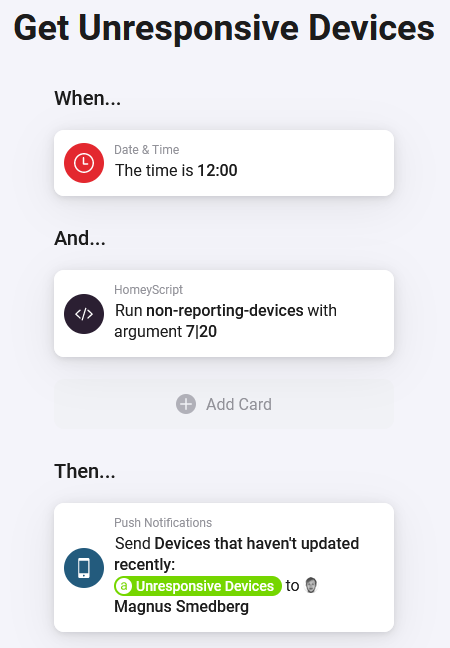
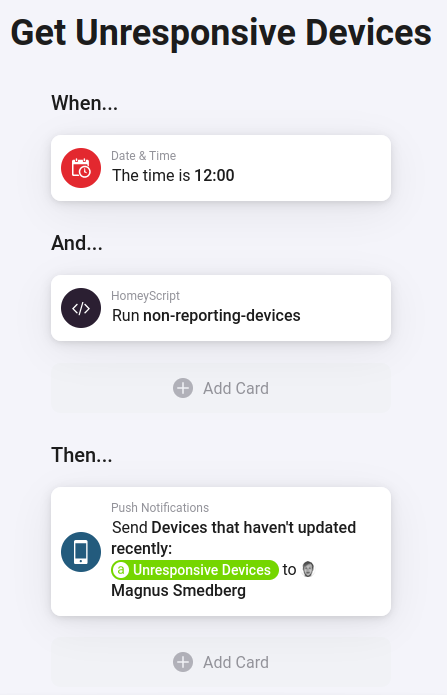
Script rewrite
You can now configure the threshold for individual capabilities

diff --git a/get-non-reporting-devices.js b/get-non-reporting-devices.js
@@ -1,100 +1,100 @@
 /*
-  Gets a list of devices that haven't reported for a set number of days.
-  Updated: 2023-01-30
+  Updated: 2025-01-02
+
+  This script identifies unresponsive devices in Homey by checking if the last update time of their capabilities exceeds configured thresholds.
+  A device is considered unresponsive only if all of its capabilities exceed the threshold.
+  The script returns true if any device is unresponsive and add the affected devices, and which zone it is in, to the 'Unresponsive Devices' tag.
 
   Example flow: https://github.com/AltonV/HomeyScripts/blob/main/pictures/get-non-reporting-devices-example-flow.png
 
-  Returns true if any devices haven't reported in the specified time
-  and outputs a list of devices to a tag that can be used in flows
-
-  Argument:
-    The script can take two numbers separated by | as an argument.
-    First number changes value of 'notReportedForDays' and the second changes 'notReportedForDaysBattery'.
-
   Variables:
-    ignoredNames: list of ignored names separated by |.
-    Uses partial matching. Case sensitive.
+    defaultThreshold:
+      The default threshold in hours.
 
-    notReportedForDays: How long ago in days where the device should count as offline
-    Overridden if the script is run with an argument.
+    capabilityThresholds:
+      Custom thresholds, in hours, for specific capabilities.
+      The list of capabilities can be found here. Use the ID.
+      https://apps-sdk-v3.developer.homey.app/tutorial-device-capabilities.html
 
-    notReportedForDaysBattery: Same as 'notReportedForDays'
-    but for devices that only reports battery status
+    ignoredNames:
+      List of names that will be ignored.
+      Uses case-sensitive partial matching.
 
-    ignoredApps: ignored appids separated by |.
-    By default homeys built-in virtual devices and the app Virtual Devices is ignored
-    You can get the appid from the app store URL.
+    ignoredApps:
+      List of apps to ignore.
+      I would recommend using the app ID, which you can get from the app store URL.
 
-    ignoredClasses: ignored classids separated by |.
-    https://apps-sdk-v3.developer.homey.app/tutorial-device-classes.html
+    ignoredClasses: list of device classes to ignore.
+      Use the class IDs from this list
+      https://apps-sdk-v3.developer.homey.app/tutorial-device-classes.html
 
-    tagName: the name of the tag where the output is written to.
+    tagName:
+      The name of the tag where the output is saved.
 
 */
 
-let notReportedForDays = 7;
-let notReportedForDaysBattery = 20;
+let defaultThreshold = 12;
 
-const ignoredNames = "";
-const ignoredApps = "vdevice|com.arjankranenburg.virtual";
-const ignoredClasses = "";
+let capabilityThresholds = {
+  "measure_battery": 168, // Battery status is usually reported very rarely.
+  "measure_temperature": 1,
+};
+
+let ignoredNames = [
+  //"Keyfob",
+];
+let ignoredApps = [
+  "virtualdriverinfrared", // Infrared devices
+  //"virtualsocket", // Built-in virtual socket
+  //"virtualbutton", // Built-in virtual button
+  //"com.arjankranenburg.virtual", // Virtual Devices app
+  //"nl.qluster-it.DeviceCapabilities", // Device Capabilities app
+];
+let ignoredClasses = [
+  //"remote",
+  //"sprinkler",
+];
 
 const tagName = "Unresponsive Devices";
 
-if (args[0]) {
-  let argParts = args[0].split('|');
-  if (argParts.length > 1) {
-    notReportedForDays = parseInt(argParts[0]);
-    notReportedForDaysBattery = parseInt(argParts[1]);
-  } else {
-    notReportedForDays = parseInt(args[0]);
-  }
-  if (isNaN(notReportedForDays) || isNaN(notReportedForDaysBattery)) {
-    throw new Error("Argument must be a number");
-  }
-}
 
-const date = new Date();
-date.setDate(date.getDate() - notReportedForDays);
-const dateBattery = new Date();
-dateBattery.setDate(dateBattery.getDate() - notReportedForDaysBattery);
+//===============================================
+const toMs = (h = 0, m = 0, s = 0) => ((h * 60 * 60 + m * 60 + s) * 1000);
+
+ignoredNames = ignoredNames.join("|");
+ignoredApps = ignoredApps.join("|");
+
+// Convert to timestamps
+for (const [c, t] of Object.entries(capabilityThresholds)) {
+  capabilityThresholds[c] = Date.now() - toMs(t);
+}
+defaultThreshold = Date.now() - toMs(defaultThreshold);
 
 // Get all devices and zones
 const devices = await Homey.devices.getDevices();
 const zones = await Homey.zones.getZones();
 
-let result = false;
-let resultText = "";
+let result = "";
 
 // Loop over all devices
 for (const device of Object.values(devices)) {
   if (!device.capabilitiesObj || device.capabilities.length == 0) continue;
   if (ignoredNames && device.name.match(ignoredNames)) continue;
-  if (ignoredApps && device.ownerUri.match(ignoredApps)) continue;
-  if (ignoredClasses && device.class.match(ignoredClasses)) continue;
+  if (ignoredApps && device.driverId.match(ignoredApps)) continue;
+  if (ignoredClasses.includes(device.virtualClass || device.class)) continue;
 
-  let lastUpdate = 0;
-
-  // Check if the device only reports battery status
-  let onlyBattery = false;
-  if (device.capabilities.includes("measure_battery") && device.capabilities.length == 1) {
-    onlyBattery = true;
-  }
+  let updated = false;
 
   // Loop over all capabilities
   for (const capability of Object.values(device.capabilitiesObj)) {
-    if (lastUpdate < capability.lastUpdated) {
-      lastUpdate = capability.lastUpdated;
-    }
+    updated = updated || (capability.lastUpdated >= (capabilityThresholds[capability.id] || defaultThreshold))
   }
-  if ((lastUpdate <= date && !onlyBattery) || (lastUpdate <= dateBattery && onlyBattery)) {
-    result = true;
-    resultText += device.name + " - " + zones[device.zone].name + "\n";
-  }
+
+  if (!updated) result += device.name + " - " + zones[device.zone].name + "\n";
 }
 
-console.log(resultText);
+console.log(result);
 
-await tag(tagName, resultText);
+await tag(tagName, result);
 
-return result;
+return result.length > 0;
